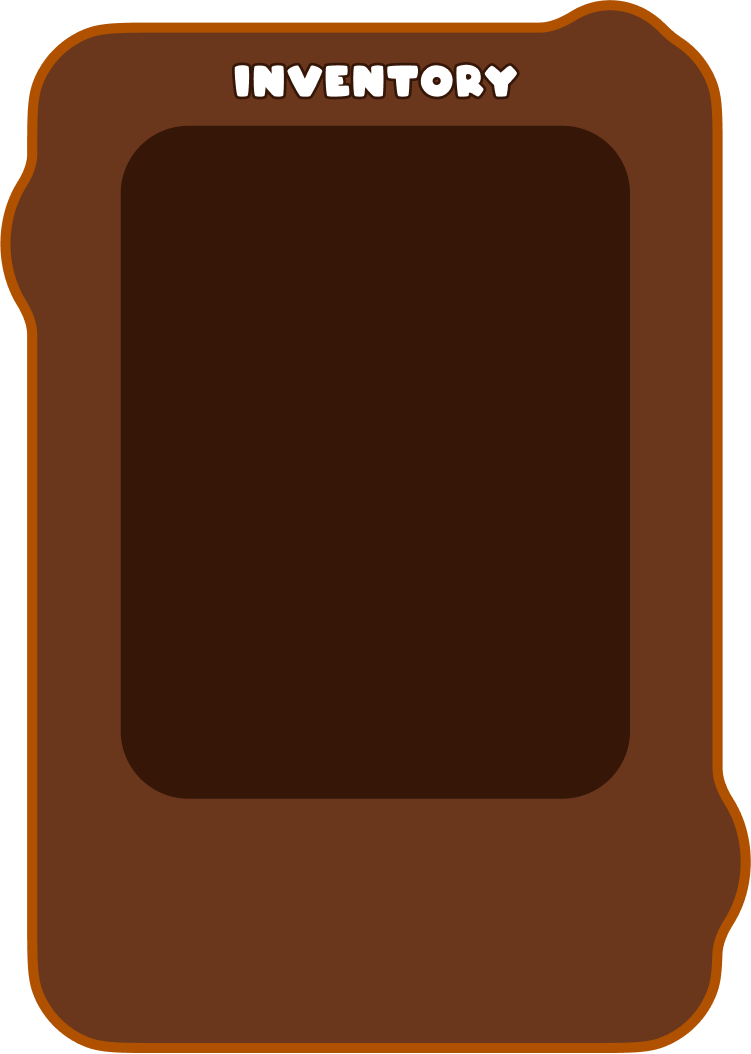
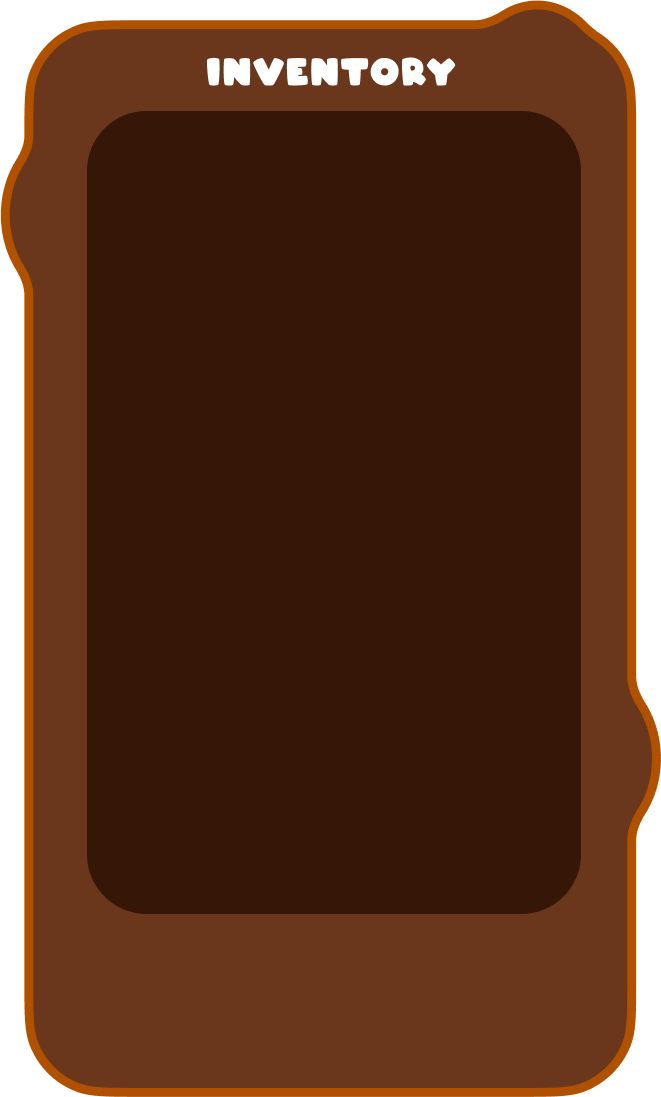
feat: ADD POWER UP MODAL

diff --git a/stores/floor.tsx b/stores/floor.tsx
@@ -95,6 +95,25 @@ interface FloorStore {
   showShopModal: boolean
   setShowShopModal: (v: boolean) => void
 
+  /* ---------------- Inventory modal ---------------- */
+  showInventoryModal: boolean
+  setShowInventoryModal: (v: boolean) => void
+
+  /* ---------------- Power-up modal ---------------- */
+  showPowerUpModal: boolean
+  setShowPowerUpModal: (v: boolean) => void
+
+  /* ---------------- Inventory items ---------------- */
+  inventoryItems: Array<{
+    id: string
+    name: string
+    description: React.ReactNode
+    image: string
+  }>
+  addInventoryItem: (item: { id: string; name: string; description: React.ReactNode; image: string }) => void
+  selectedInventoryItemId: string | null
+  setSelectedInventoryItemId: (id: string | null) => void
+
   /* ---------------- Camera shake -------------- */
   cameraShakeTrigger: number
   cameraShakeIntensity: number
@@ -191,6 +210,32 @@ export const useFloorStore = create<FloorStore>((set, get) => ({
   showShopModal: false,
   setShowShopModal: (v) => set({ showShopModal: v }),
 
+  /* ---------------- Inventory modal defaults ---------------- */
+  showInventoryModal: false,
+  setShowInventoryModal: (v) => set({ showInventoryModal: v }),
+
+  /* ---------------- Power-up modal defaults ---------------- */
+  showPowerUpModal: false,
+  setShowPowerUpModal: (v) => set({ showPowerUpModal: v }),
+
+  /* ---------------- Inventory items defaults ---------------- */
+  inventoryItems: [],
+  addInventoryItem: (item) =>
+    set((s) => {
+      // Don't add duplicate items
+      const exists = s.inventoryItems.some((existing) => existing.id === item.id)
+      if (exists) return s
+
+      const newItems = [...s.inventoryItems, item]
+      return {
+        inventoryItems: newItems,
+        // Auto-select the first item if none selected
+        selectedInventoryItemId: s.selectedInventoryItemId || item.id,
+      }
+    }),
+  selectedInventoryItemId: null,
+  setSelectedInventoryItemId: (id) => set({ selectedInventoryItemId: id }),
+
   /* ---------------- Camera shake defaults ---------------- */
   cameraShakeTrigger: 0,
   cameraShakeIntensity: GAME_CONFIG.agent?.cameraShake?.intensity ?? 0.12,
@@ -250,6 +295,14 @@ export const useFloorStore = create<FloorStore>((set, get) => ({
 
       // play cool emote immediately
       get().setEmote('cool')
+
+      // add chestnut to inventory
+      get().addInventoryItem({
+        id: 'chestnut',
+        name: 'Chestnut',
+        description: 'Yummy!',
+        image: '/elements/chestnut.png',
+      })
 
       // wait 2 s before showing win modal
       await new Promise((r) => setTimeout(r, 3000))
@@ -312,7 +365,28 @@ export const useFloorStore = create<FloorStore>((set, get) => ({
       get().addScore(1)
     }
 
-    // finish
+    // add QR code to inventory
+    get().addInventoryItem({
+      id: 'qr-code',
+      name: 'Voucher Unlocked!',
+      description: (
+        <span className='text-[#F0DCC3]'>
+          Here’s your exclusive QR code. Show it to redeem your free <span className='font-bold text-white'>Coca-Cola</span> sample.
+          <br />
+          <br />
+          Redeem Condition:
+          <br />- Valid for <span className='font-bold underline'>1 free sample</span>
+          <br />- Redeem at merchant store: <span className='font-bold text-white'>Calvin, Table D20.005, 20th Floor</span>
+          <br />- Present this QR code at the counter
+        </span>
+      ),
+      image: '/elements/qr.png',
+    })
+
+    // show power-up modal
+    set({ showPowerUpModal: true })
+
+    // finish (controls will be unlocked when power-up modal is closed)
     set({ controlLocked: false, showGuideCoke: false })
     get().setEmote('none')
   },

diff --git a/components/hud/inventory-modal.tsx b/components/hud/inventory-modal.tsx
@@ -1,0 +1,70 @@
+import { useFloorStore } from '@/stores/floor'
+import { useEffect } from 'react'
+
+export default function InventoryModal() {
+  const { showInventoryModal, setShowInventoryModal, inventoryItems, selectedInventoryItemId, setSelectedInventoryItemId } = useFloorStore()
+
+  // Auto-select first item when modal opens and no item is selected
+  useEffect(() => {
+    if (showInventoryModal && inventoryItems.length > 0 && !selectedInventoryItemId) {
+      setSelectedInventoryItemId(inventoryItems[0].id)
+    }
+  }, [showInventoryModal, inventoryItems, selectedInventoryItemId, setSelectedInventoryItemId])
+
+  if (!showInventoryModal) return null
+
+  const selectedItem = inventoryItems.find((item) => item.id === selectedInventoryItemId)
+
+  return (
+    <div className='fixed inset-0 bg-black/60 flex items-center justify-center pointer-events-auto z-[10000] opacity-0 animate-[fade-in_300ms_ease-out_forwards]'>
+      <div className='relative opacity-0 animate-[slide-up-fade_400ms_ease-out_75ms_forwards] p-10'>
+        <img src='/elements/panel-inventory.png' alt='Inventory' className='w-[540px] max-w-full h-auto' />
+
+        {/* Close button at top left corner */}
+        <button className='absolute top-12 right-12 z-10' onClick={() => setShowInventoryModal(false)}>
+          <img src='/elements/element-button-close.png' alt='Close' className='w-[40px] sm:w-[60px] h-auto' />
+        </button>
+
+        {/* Inventory details - top section */}
+        <div className='absolute top-12 md:top-24 left-0 w-full h-[320px] px-24 sm:px-32 pt-16'>
+          <div className='w-full h-full rounded-2xl flex flex-col items-center gap-2 sm:gap-4'>
+            {selectedItem && (
+              <>
+                <img src={selectedItem.image} alt={selectedItem.name} className='w-[100px] sm:w-[150px] h-auto' />
+                <span className='text-white text-lg font-ciko mt-2 sm:text-3xl'>{selectedItem.name}</span>
+                <span className='text-white text-sm font-oc-format text-center sm:text-lg'>{selectedItem.description}</span>
+              </>
+            )}
+          </div>
+        </div>
+
+        {/* Inventory items - bottom section */}
+
+        <div className='absolute bottom-14 left-1/2 -translate-x-1/2 px-28 sm:bottom-20'>
+          <div className='relative h-[60px] sm:h-[80px]'>
+            {inventoryItems.length > 0 ? (
+              <div className='flex gap-4 h-full w-auto'>
+                {inventoryItems.map((item) => (
+                  <button
+                    key={item.id}
+                    className={`h-full rounded-2xl p-1 transition-all aspect-square ${
+                      selectedInventoryItemId === item.id ? 'bg-[#5A2D1A] ring-2 ring-yellow-400' : 'bg-[#361607] hover:bg-[#4A2012]'
+                    }`}
+                    onClick={() => setSelectedInventoryItemId(item.id)}>
+                    <img src={item.image} alt={item.name} className='object-contain' />
+                  </button>
+                ))}
+              </div>
+            ) : (
+              <div className='flex items-center justify-center h-full'>
+                <div className='w-full h-full rounded-2xl flex items-center justify-center'>
+                  <span className='text-gray-400 text-sm font-oc-format sm:text-lg'>No items</span>
+                </div>
+              </div>
+            )}
+          </div>
+        </div>
+      </div>
+    </div>
+  )
+}

diff --git a/components/hud/hud.tsx b/components/hud/hud.tsx
@@ -2,6 +2,8 @@ import { useEffect } from 'react'
 import { useFloorStore } from '@/stores/floor'
 import QRCode from 'react-qr-code'
 import { cn } from '@/lib/utils'
+import InventoryModal from './inventory-modal'
+import PowerUpModal from './power-up-modal'
 
 export default function Hud() {
   const {
@@ -22,6 +24,8 @@ export default function Hud() {
     /* shop */
     showShopModal,
     setShowShopModal,
+    /* inventory */
+    setShowInventoryModal,
     showWinModal,
     setShowWinModal,
     winCode,
@@ -49,7 +53,7 @@ export default function Hud() {
       {hasOnboarded && (
         <aside
           id='mission-bar'
-          className='absolute select-none top-4 left-1/2 flex justify-between -translate-x-1/2 pointer-events-none md:w-[700px] w-full px-4 origin-top-left opacity-0 animate-[slide-down-fade_400ms_ease-out_50ms_forwards]'>
+          className='absolute select-none scale-[.8] origin-top-left top-4 left-1/2 flex justify-between -translate-x-1/2 pointer-events-none md:w-[700px] w-full px-4  opacity-0 animate-[slide-down-fade_400ms_ease-out_50ms_forwards]'>
           <div className='font-oc-format flex text-lg flex-col gap-1 p-4 bg-[#6A371D] border-[#B05100] border-[3px] rounded-3xl relative leading-none text-white tracking-wider'>
             <span className='text-lg'>Mission: Beat Grub</span>
             {/* dynamic mission lines */}
@@ -149,8 +153,10 @@ export default function Hud() {
 
       {/* Bottom-center player UI — hidden during onboarding */}
       {hasOnboarded && (
-        <aside className='absolute bottom-4 w-full flex justify-between items-center px-4 md:w-[700px] left-1/2 -translate-x-1/2 pointer-events-auto select-none'>
-          <div id='player-ui' className='pointer-events-none w-[280px] scale-[0.9] opacity-0 animate-[slide-up-fade_450ms_ease-out_100ms_forwards]'>
+        <aside className='absolute bottom-8 w-full flex justify-between items-center px-4 md:w-[700px] left-1/2 -translate-x-1/2 pointer-events-auto select-none'>
+          <div
+            id='player-ui'
+            className='pointer-events-none w-[280px] scale-[0.8] origin-bottom-left opacity-0 animate-[slide-up-fade_450ms_ease-out_100ms_forwards]'>
             <img src='/elements/panel-player.png' className='w-full h-auto top-0 left-0' />
             <img src='/elements/avatar-normal.png' className='absolute w-[130px] h-auto top-[-4px] left-[-18px]' />
             <div className='absolute top-[24px] left-0 w-full h-full pl-[120px] pr-10 flex flex-col gap-2'>
@@ -166,11 +172,20 @@ export default function Hud() {
               </div>
             </div>
           </div>
-          <button id='player-ui-inventory' className='h-[100px] w-[100px] animate-[slide-up-fade_450ms_ease-out_100ms_forwards] pointer-events-auto'>
+          <button
+            id='player-ui-inventory'
+            className='h-[100px] w-[100px] animate-[slide-up-fade_450ms_ease-out_100ms_forwards] pointer-events-auto scale-[.8] origin-bottom-right'
+            onClick={() => setShowInventoryModal(true)}>
             <img src='/elements/element-button-inventory.png' className='h-full w-auto' />
           </button>
         </aside>
       )}
+
+      {/* Inventory Modal */}
+      <InventoryModal />
+
+      {/* Power-up Modal */}
+      <PowerUpModal />
     </div>
   )
 }

diff --git a/components/hud/power-up-modal.tsx b/components/hud/power-up-modal.tsx
@@ -1,0 +1,20 @@
+import { useFloorStore } from '@/stores/floor'
+
+export default function PowerUpModal() {
+  const { showPowerUpModal, setShowPowerUpModal } = useFloorStore()
+
+  if (!showPowerUpModal) return null
+
+  return (
+    <div className='fixed inset-0 bg-black/60 flex items-center justify-center pointer-events-auto z-[10000] opacity-0 animate-[fade-in_300ms_ease-out_forwards]'>
+      <div className='relative opacity-0 animate-[slide-up-fade_400ms_ease-out_75ms_forwards] p-10'>
+        <img src='/elements/panel-power-up.png' alt='Power Up' className='w-[540px] max-w-full h-auto' />
+
+        {/* Back to Battle button */}
+        <button className='absolute bottom-14 left-1/2 -translate-x-1/2 sm:bottom-20' onClick={() => setShowPowerUpModal(false)}>
+          <img src='/elements/element-button-back-to-battle.png' alt='Back to Battle' className='w-[200px] sm:w-[220px] h-auto' />
+        </button>
+      </div>
+    </div>
+  )
+}
